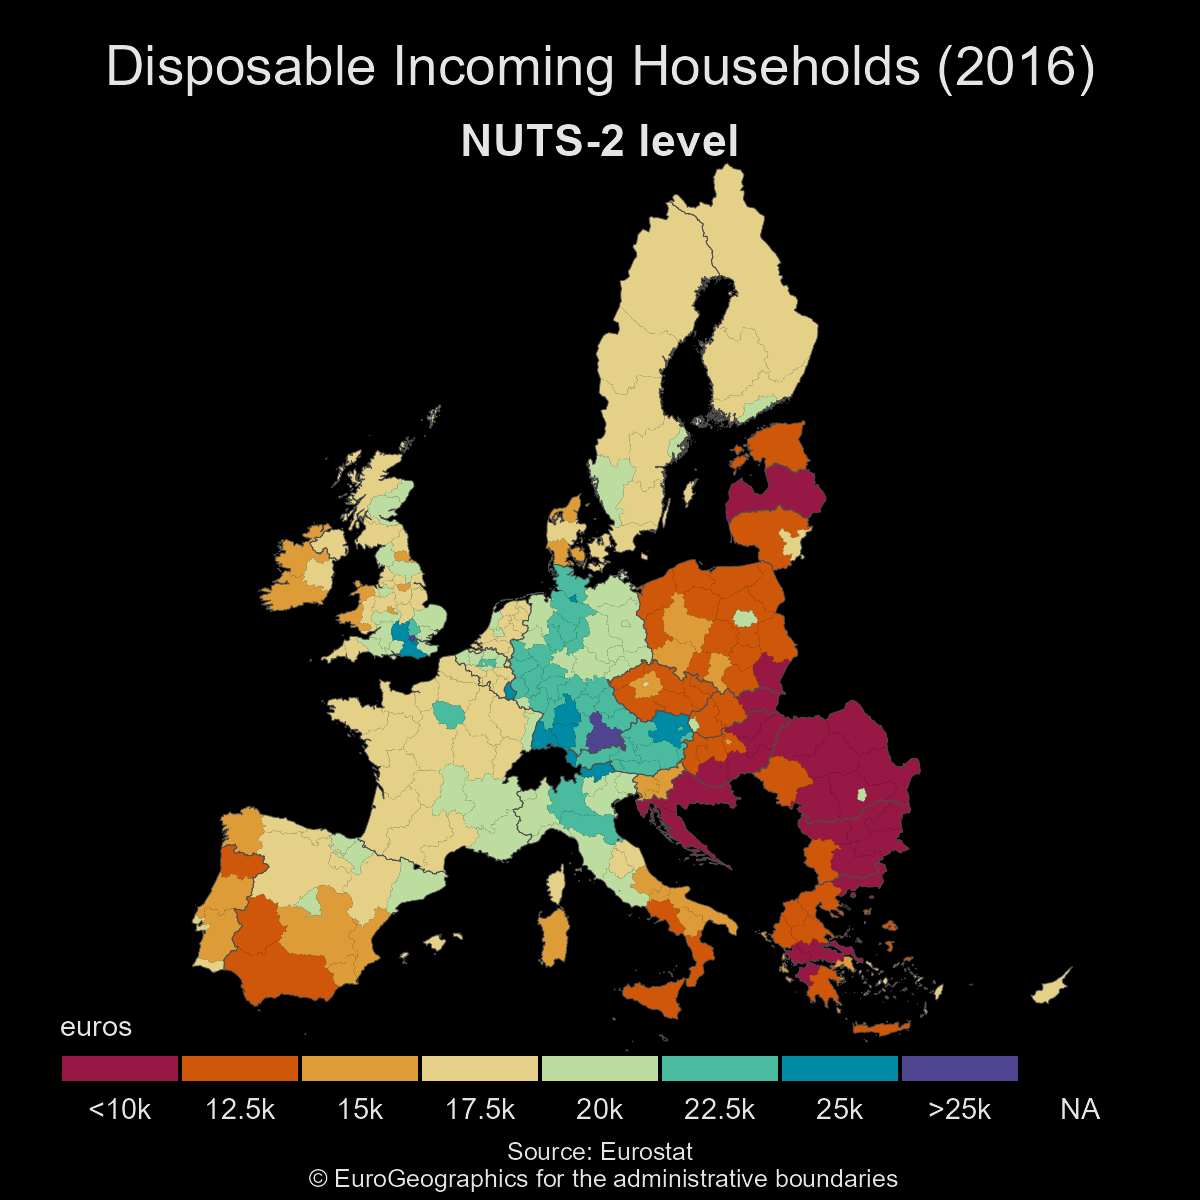
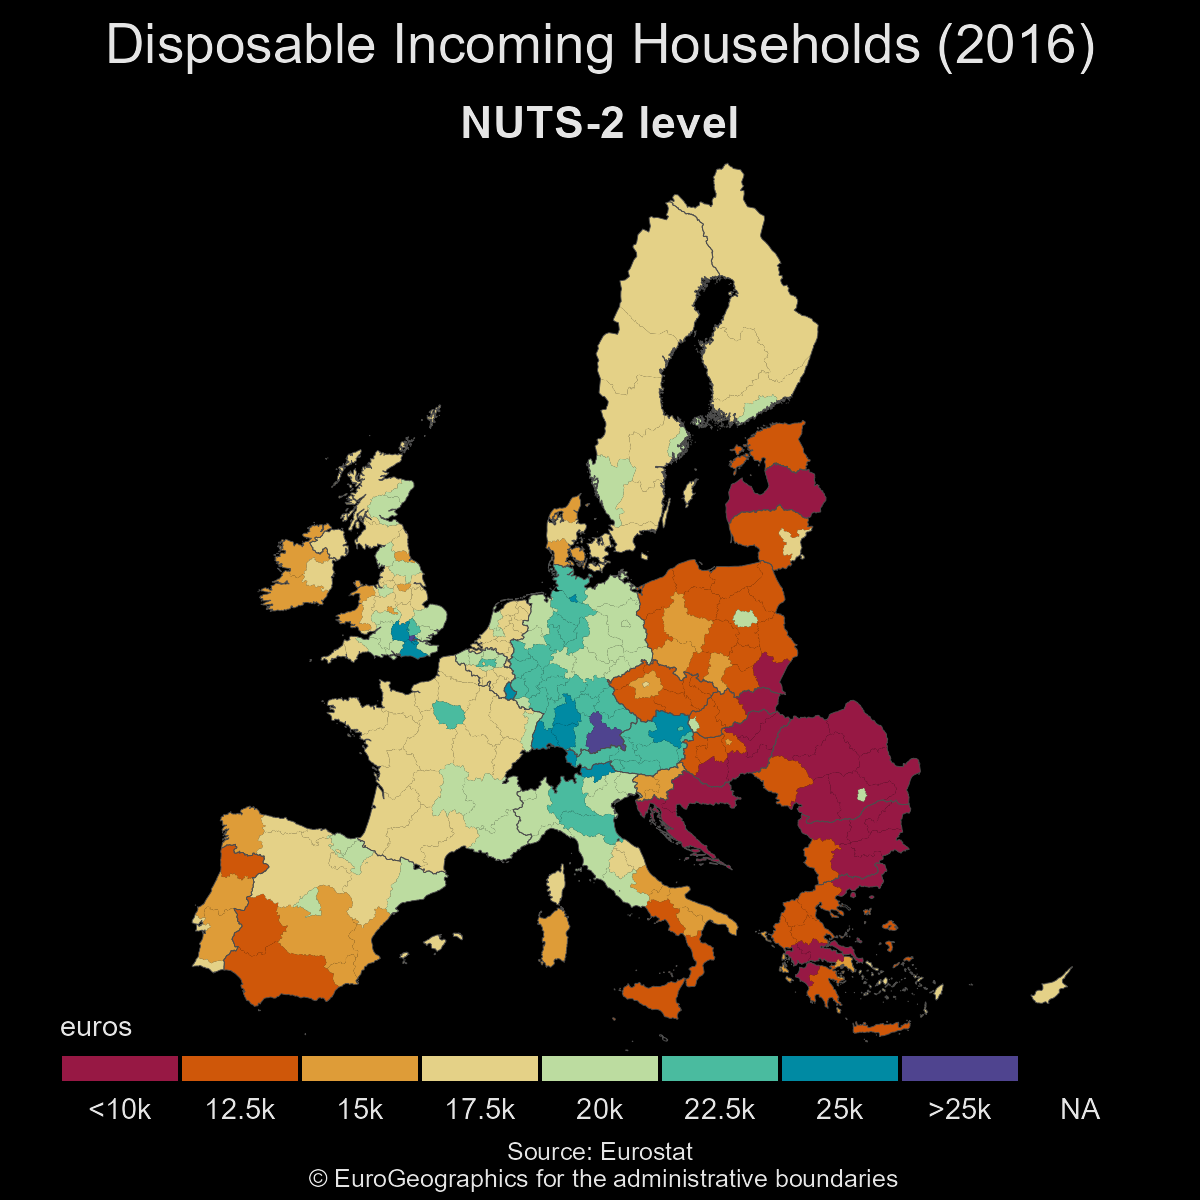
Update img

Changed region(s): [[0.0925, 0.0, 0.925, 0.1542]]

diff --git a/README.md b/README.md
@@ -77,7 +77,6 @@ install.packages("giscoR")
 This script highlights some features of `giscoR`:
 
 ``` r
-
 library(giscoR)
 library(sf)
 library(dplyr)
@@ -112,7 +111,6 @@ ggplot(DNK_all) +
 
 ``` r
 
-
 # Labels and Lines available
 
 labs <- gisco_get_countries(
@@ -145,7 +143,6 @@ ggplot(coast) +
 An example of a labeled map using `ggplot2`:
 
 ``` r
-
 ITA <- gisco_get_nuts(country = "Italy", nuts_level = 1)
 
 ggplot(ITA) +
@@ -165,7 +162,6 @@ Popovic](https://twitter.com/milos_agathon) on [this
 post](https://milospopovic.net/how-to-make-choropleth-map-in-r/):
 
 ``` r
-
 # Get shapes
 nuts3 <- gisco_get_nuts(
   year = "2016",
@@ -255,12 +251,12 @@ ggplot(nuts3.sf) +
   theme(
     plot.title = element_text(
       size = 20, color = pal[length(pal) - 1],
-      hjust = 0.5, vjust = -10
+      hjust = 0.5, vjust = -8
     ),
     plot.subtitle = element_text(
       size = 14,
       color = pal[length(pal) - 1],
-      hjust = 0.5, vjust = -15, face = "bold"
+      hjust = 0.5, vjust = -10, face = "bold"
     ),
     plot.caption = element_text(
       size = 9, color = "grey60",
@@ -299,18 +295,18 @@ them on your local directory.
 
 ### API data packages
 
-  - `eurostat` package (<https://ropengov.github.io/eurostat/>). This is
+-   `eurostat` package (<https://ropengov.github.io/eurostat/>). This is
     an API package that provides access to open data from Eurostat.
 
 ### Plotting `sf` objects
 
 Some packages recommended for visualization are:
 
-  - [`tmap`](https://mtennekes.github.io/tmap/)
-  - [`ggplot2`](https://github.com/tidyverse/ggplot2) +
+-   [`tmap`](https://mtennekes.github.io/tmap/)
+-   [`ggplot2`](https://github.com/tidyverse/ggplot2) +
     [`ggspatial`](https://github.com/paleolimbot/ggspatial)
-  - [`mapsf`](https://riatelab.github.io/mapsf/)
-  - [`leaflet`](https://rstudio.github.io/leaflet/)
+-   [`mapsf`](https://riatelab.github.io/mapsf/)
+-   [`leaflet`](https://rstudio.github.io/leaflet/)
 
 ## Contribute
 
@@ -319,10 +315,10 @@ code](https://github.com/dieghernan/giscoR/).
 
 Contributions are very welcome:
 
-  - [Use issue tracker](https://github.com/dieghernan/giscoR/issues) for
+-   [Use issue tracker](https://github.com/dieghernan/giscoR/issues) for
     feedback and bug reports.
-  - [Send pull requests](https://github.com/dieghernan/giscoR/)
-  - [Star us on the GitHub page](https://github.com/dieghernan/giscoR)
+-   [Send pull requests](https://github.com/dieghernan/giscoR/)
+-   [Star us on the GitHub page](https://github.com/dieghernan/giscoR)
 
 ## Citation
 
@@ -352,7 +348,7 @@ citation("giscoR")
 
 ## Copyright notice
 
-*From GISCO \> Geodata \> Reference data \> Administrative Units /
+*From GISCO &gt; Geodata &gt; Reference data &gt; Administrative Units /
 Statistical Units*
 
 > When data downloaded from this page is used in any printed or
@@ -360,13 +356,13 @@ Statistical Units*
 > to the whole Eurostat website, data source will have to be
 > acknowledged in the legend of the map and in the introductory page of
 > the publication with the following copyright notice:
-> 
+>
 > EN: © EuroGeographics for the administrative boundaries
-> 
+>
 > FR: © EuroGeographics pour les limites administratives
-> 
+>
 > DE: © EuroGeographics bezüglich der Verwaltungsgrenzen
-> 
+>
 > For publications in languages other than English, French or German,
 > the translation of the copyright notice in the language of the
 > publication shall be used.
